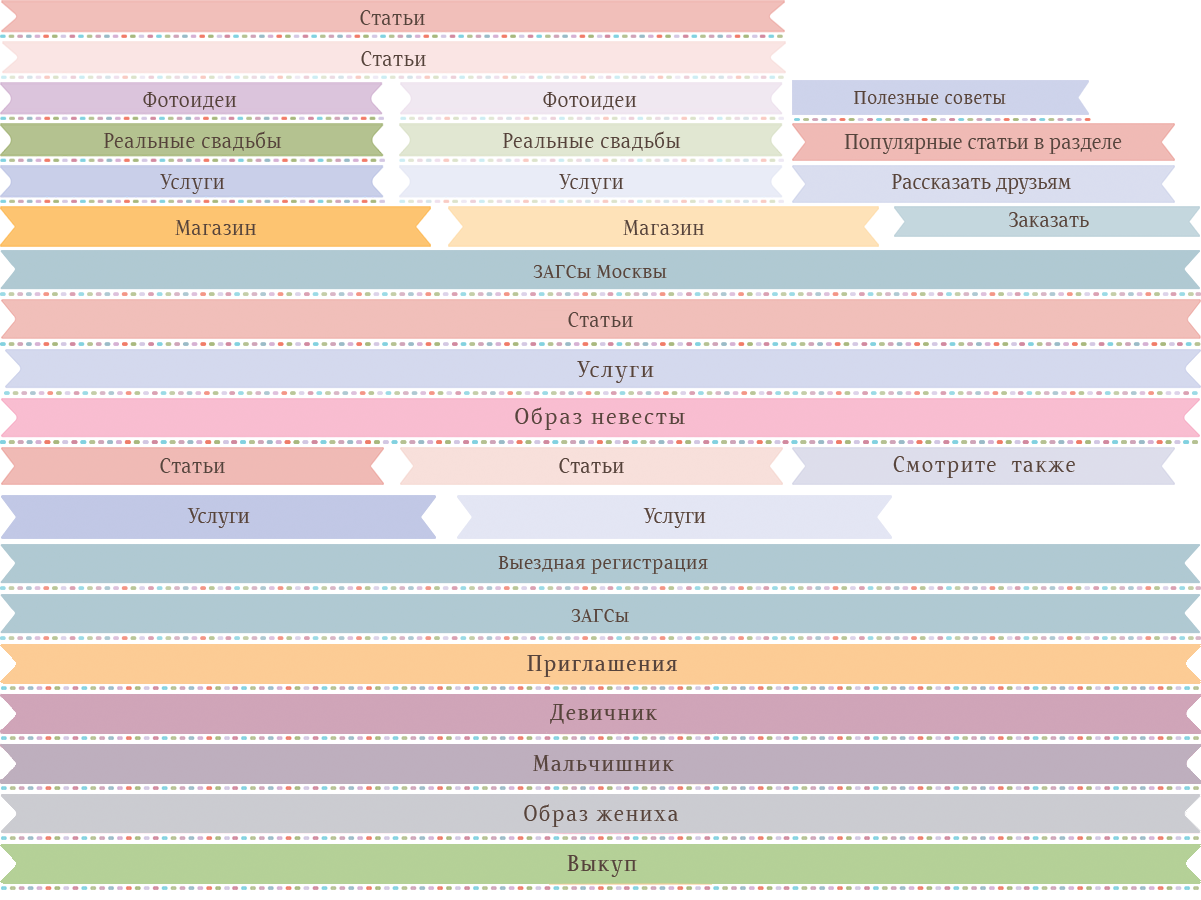
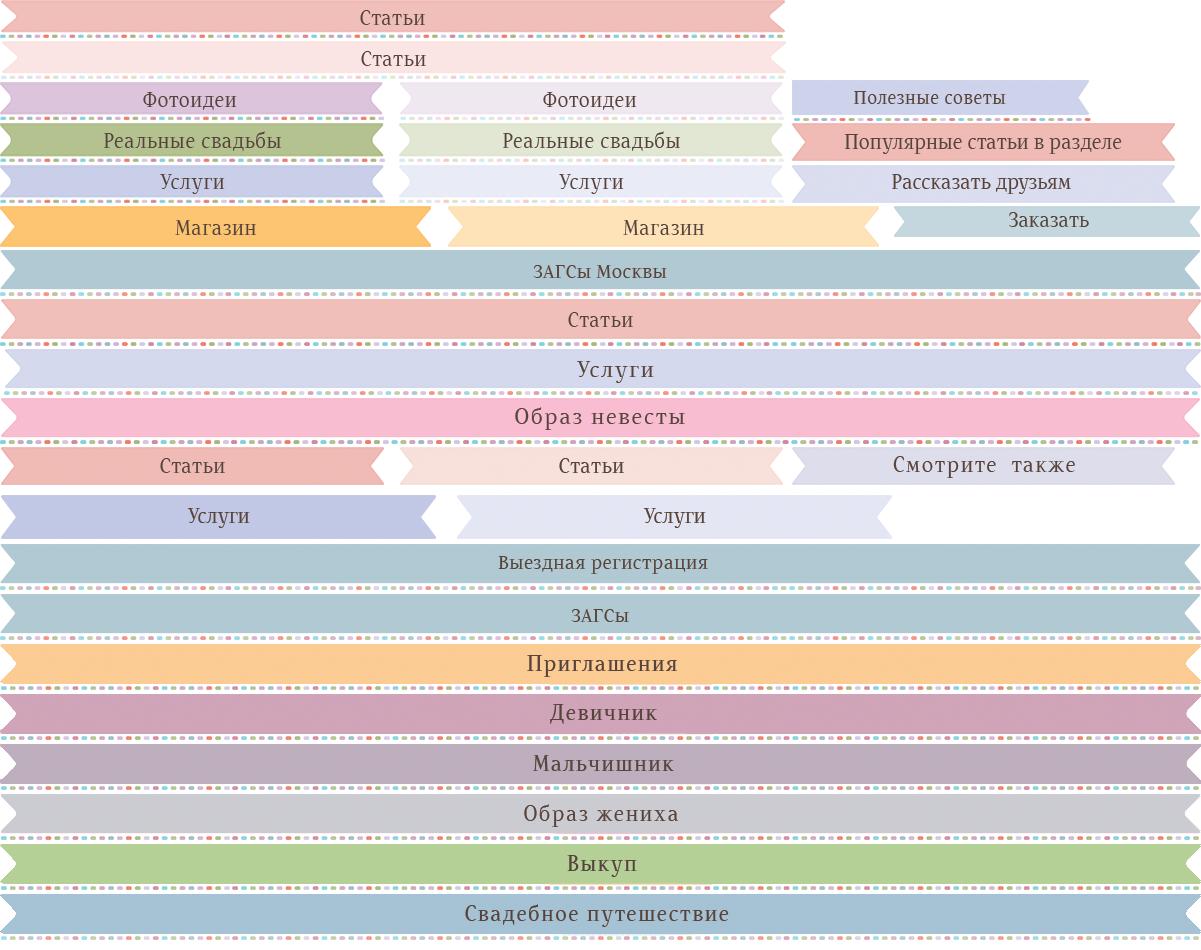
+ travel-list.html page

diff --git a/travel-list.html b/travel-list.html
@@ -1,0 +1,306 @@
+<!DOCTYPE html>
+<html>
+<head>
+    <meta charset="utf-8"/>
+    <meta name="viewport" content="width=1326, initial-scale=1">
+    <title>Свадебный портал №1</title>
+    <link rel="stylesheet" href="css/style.css"/>
+    <script src="js/jquery-2.1.1.min.js"></script>
+    <script src="js/jquery.main.js"></script>
+</head>
+<body>
+    <div id="wrapper">
+        <header id="header">
+            <div class="top-bar">
+                <div class="center-container">
+                    <form class="search-form" action="#">
+                        <fieldset>
+                            <input type="text" placeholder="Поиск"/>
+                            <input type="submit" value="Найти"/>
+                        </fieldset>
+                    </form>
+                    <ul class="menu">
+                        <li><a href="#">Вход</a></li>
+                        <li><a href="#">О проекте</a></li>
+                        <li><a href="#">Контакты</a></li>
+                    </ul>
+                    <ul class="social">
+                        <li class="vk"><a href="#" title="Вконтакте">Вконтакте</a></li>
+                        <li class="fb"><a href="#" title="Facebook">Facebook</a></li>
+                        <li class="twit"><a href="#" title="Twitter">Twitter</a></li>
+                        <li class="inst"><a href="#" title="Instagram">Instagram</a></li>
+                        <li class="pint"><a href="#" title="Pinterest">Pinterest</a></li>
+                    </ul>
+                </div>
+            </div>
+            <div class="logo-holder">
+                <strong><a class="logo" href="#" title="Свадебный портал №1">Свадебный портал №1</a></strong>
+            </div>
+            <nav class="main-nav">
+                <ul id="nav">
+                    <li class="invitations">
+                        <a href="#"><span>Приглашения</span></a>
+                    </li>
+                    <li class="wedding-look has-drop">
+                        <a href="#"><span>Свадебный образ</span></a>
+                        <ul class="drop">
+                            <li><a href="#">Невеста</a></li>
+                            <li><a href="#">Жених</a></li>
+                            <li><a href="#">Друзья</a></li>
+                        </ul>
+                    </li>
+                    <li class="register has-drop">
+                        <a href="#"><span>ЗАГС и Выездная регистрация</span></a>
+                        <ul class="drop">
+                            <li><a href="#">ЗАГС</a></li>
+                            <li><a href="#">Выездная регистрация</a></li>
+                        </ul>
+                    </li>
+                    <li class="party has-drop">
+                        <a href="#"><span>Девичник и мальчишник</span></a>
+                        <ul class="drop">
+                            <li><a href="#">Девичник</a></li>
+                            <li><a href="#">Мальчишник</a></li>
+                        </ul>
+                    </li>
+                    <li class="buyout">
+                        <a href="#"><span>Выкуп</span></a>
+                    </li>
+                    <li class="banket">
+                        <a href="#"><span>Банкет и программа</span></a>
+                    </li>
+                    <li class="photography has-drop">
+                        <a href="#"><span>Фотосъемка и видеосъемка</span></a>
+                        <ul class="drop">
+                            <li><a href="#">Фотосъемка</a></li>
+                            <li><a href="#">Видеосъемка</a></li>
+                        </ul>
+                    </li>
+                    <li class="walk">
+                        <a href="#"><span>Прогулка</span></a>
+                    </li>
+                    <li class="wedding-night">
+                        <a href="#"><span>Первая брачная ночь</span></a>
+                    </li>
+                    <li class="tour active">
+                        <a href="#"><span>Свадебное путешествие</span></a>
+                    </li>
+                </ul>
+                <ul class="add-links">
+                    <li class="shop"><a href="#">Магазин</a></li>
+                    <li class="services"><a href="#">Услуги</a></li>
+                    <li class="articles"><a href="#">Статьи</a></li>
+                </ul>
+            </nav>
+        </header>
+        <main id="main">
+            <div class="container">
+                <h1 class="title title-travels-wide"><span>ЗАГСы Москвы</span></h1>
+                <div class="content">
+                    <div class="travel-list">
+                        <h2>Информация о странах</h2>
+                        <div class="column-lists">
+                            <div class="column-list">
+                                <div class="list-item">
+                                    <span class="letter">А</span>
+                                    <ul>
+                                        <li><a href="#">Андорра</a></li>
+                                        <li><a href="#">Аргентина</a></li>
+                                        <li><a href="#">Аруба</a></li>
+                                    </ul>
+                                </div>
+                                <div class="list-item">
+                                    <span class="letter">Б</span>
+                                    <ul>
+                                        <li><a href="#">Барбадос</a></li>
+                                        <li><a href="#">Бельгия</a></li>
+                                        <li><a href="#">Болгария</a></li>
+                                        <li><a href="#">Бразилия</a></li>
+                                    </ul>
+                                </div>
+                                <div class="list-item">
+                                    <span class="letter">В</span>
+                                    <ul>
+                                        <li><a href="#">Великобритания</a></li>
+                                        <li><a href="#">Венгрия</a></li>
+                                        <li><a href="#">Вьетнам</a></li>
+                                    </ul>
+                                </div>
+                                <div class="list-item">
+                                    <span class="letter">Г</span>
+                                    <ul>
+                                        <li><a href="#">Германия</a></li>
+                                        <li><a href="#">Греция <span class="counter">(1)</span></a></li>
+                                    </ul>
+                                </div>
+                                <div class="list-item">
+                                    <span class="letter">Д</span>
+                                    <ul>
+                                        <li><a href="#">Детский отдых</a></li>
+                                        <li><a href="#">Доминиканская республика</a></li>
+                                    </ul>
+                                </div>
+                                <div class="list-item">
+                                    <span class="letter">Е</span>
+                                    <ul>
+                                        <li><a href="#">Египет</a></li>
+                                    </ul>
+                                </div>
+                                <div class="list-item">
+                                    <span class="letter">З</span>
+                                    <ul>
+                                        <li><a href="#">Зимбабве</a></li>
+                                    </ul>
+                                </div>
+                                <div class="list-item">
+                                    <span class="letter">И</span>
+                                    <ul>
+                                        <li><a href="#">Измайловский ЗАГС</a></li>
+                                    </ul>
+                                </div>
+                                <div class="list-item">
+                                    <span class="letter">К</span>
+                                    <ul>
+                                        <li><a href="#">Кунцевский ЗАГС</a></li>
+                                        <li><a href="#">Кутузовский ЗАГС</a></li>
+                                    </ul>
+                                </div>
+                                <div class="list-item">
+                                    <span class="letter">Л</span>
+                                    <ul>
+                                        <li><a href="#">Левобережный ЗАГС</a></li>
+                                        <li><a href="#">Люблинский ЗАГС</a></li>
+                                    </ul>
+                                </div>
+                                <div class="list-item">
+                                    <span class="letter">М</span>
+                                    <ul>
+                                        <li><a href="#">Медведковский ЗАГС</a></li>
+                                        <li><a href="#">Мещанский ЗАГС</a></li>
+                                        <li><a href="#">Митинский ЗАГС</a></li>
+                                    </ul>
+                                </div>
+                                <div class="list-item">
+                                    <span class="letter">Н</span>
+                                    <ul>
+                                        <li><a href="#">Нагатинский ЗАГС</a></li>
+                                        <li><a href="#">Новомосковский ЗАГС</a></li>
+                                    </ul>
+                                </div>
+                                <div class="list-item">
+                                    <span class="letter">П</span>
+                                    <ul>
+                                        <li><a href="#">Перовский ЗАГС</a></li>
+                                    </ul>
+                                </div>
+                                <div class="list-item">
+                                    <span class="letter">Р</span>
+                                    <ul>
+                                        <li><a href="#">Рязанский ЗАГС</a></li>
+                                    </ul>
+                                </div>
+                                <div class="list-item">
+                                    <span class="letter">С</span>
+                                    <ul>
+                                        <li><a href="#">Солнцевский ЗАГС</a></li>
+                                    </ul>
+                                </div>
+                                <div class="list-item">
+                                    <span class="letter">Т</span>
+                                    <ul>
+                                        <li><a href="#">Таганский ЗАГС</a></li>
+                                        <li><a href="#">Тверской ЗАГС</a></li>
+                                        <li><a href="#">Троицкий ЗАГС</a></li>
+                                        <li><a href="#">Тушинский ЗАГС</a></li>
+                                    </ul>
+                                </div>
+                                <div class="list-item">
+                                    <span class="letter">У</span>
+                                    <ul>
+                                        <li><a href="#">Ухтомский ЗАГС</a></li>
+                                    </ul>
+                                </div>
+                                <div class="list-item">
+                                    <span class="letter">Х</span>
+                                    <ul>
+                                        <li><a href="#">Хамовнический ЗАГС</a></li>
+                                        <li><a href="#">Хорошевский ЗАГС</a></li>
+                                    </ul>
+                                </div>
+                                <div class="list-item">
+                                    <span class="letter">Х</span>
+                                    <ul>
+                                        <li><a href="#">Царицынский ЗАГС</a></li>
+                                    </ul>
+                                </div>
+                                <div class="list-item">
+                                    <span class="letter">Х</span>
+                                    <ul>
+                                        <li><a href="#">Черемушкинский ЗАГС</a></li>
+                                        <li><a href="#">Чертановский ЗАГС</a></li>
+                                    </ul>
+                                </div>
+                            </div>
+                        </div>
+                    </div>
+                </div>
+                <div class="text">
+                    <p>В нашей стране все большую популярность среди молодых людей обретает сочетание брака в необычных местах. В парке, на крыше, в старинных усадьбах и даже на берегу моря.
+                        Иными словами, выездная регистрация, кажется, заменила привычный и классический поход в ЗАГС.</p>
+                    <p>Но не все так просто, и прежде, чем организовать красивую церемонию выездной регистрации молодожены обязаны посетить ЗАГС и официально зарегистрировать свой союз.
+                        ЗАГСы Москвы предоставляют такую возможность всем желающим. Благо их в столице более 30, поэтому каждая пара может подобрать наиболее удобно расположенный ЗАГС.
+                        Однако желающих скрепить свой союз подписями и штампами в Москве огромное количество! В связи с этим некоторые процедуры можно осуществить через интернет, например
+                        подать заявление или встать в очередь на дату. Для ЗАГСов Москвы создано большое количество форумов, где вы можете заменить поход в сам ЗАГС и не стоять в километровых
+                        очередях, чтобы зарегистрировать брак именно в тот день, который вы запланировали.</p>
+                    <p>Атмосфера свадьбы во многом зависит от того, в каком отделении ЗАГС проходит церемония бракосочетания. Занимаясь подготовкой к этому событию и выбирая ЗАГС Москвы,
+                        обязательно обратите внимание на его внешний вид, время работы ЗАГС, отношению персонала к молодоженам и другие важнейшие нюансы. Самое главное - не спешите
+                        записываться в первый попавшийся ЗАГС района Москвы, и сравните несколько дворцов бракосочетания.</p>
+                </div>
+            </div>
+        </main>
+        <footer id="footer">
+            <div class="holder">
+                <strong class="logo-small">
+                    <a href="#" title="Свадебный портал №1">Свадебный портал №1</a>
+                </strong>
+                <div class="column">
+                    <span class="caption">Обзор сайта</span>
+                    <ul>
+                        <li><a href="#">Свадебные сайты</a></li>
+                        <li><a href="#">Фотогаллерея</a></li>
+                        <li><a href="#">Топ пять</a></li>
+                        <li><a href="#">Реальные свадьбы</a></li>
+                        <li><a href="#">Товары</a></li>
+                    </ul>
+                </div>
+                <div class="column">
+                    <span class="caption">Drop by our sites</span>
+                    <ul>
+                        <li><a href="#">My family window</a></li>
+                        <li><a href="#">Wedding window</a></li>
+                    </ul>
+                </div>
+                <div class="column">
+                    <span class="caption">Мы в соцсетях</span>
+                    <ul class="social-links">
+                        <li class="vk"><a href="#" title="Вконтакте">Вконтакте</a></li>
+                        <li class="fb"><a href="#" title="Facebook">Facebook</a></li>
+                        <li class="twit"><a href="#" title="Твиттер">Твиттер</a></li>
+                        <li class="inst"><a href="#" title="Instagram">Instagram</a></li>
+                        <li class="pint"><a href="#" title="Pinterest">Pinterest</a></li>
+                    </ul>
+                </div>
+                <div class="column">
+                    <span class="caption">Информация</span>
+                    <ul>
+                        <li><a href="#">О нас</a></li>
+                        <li><a href="#">Контакты</a></li>
+                        <li><a href="#">Конфиденциальность</a></li>
+                        <li><a href="#">Условия</a></li>
+                    </ul>
+                </div>
+            </div>
+        </footer>
+    </div>
+</body>
+</html>

diff --git a/css/style.css b/css/style.css
@@ -833,6 +833,14 @@ fieldset {
     height: 46px;
     background-position: 0 -844px;
 }
+.title.title-travels-wide {
+    margin-bottom: 42px;
+}
+.title.title-travels-wide span {
+    width: 1201px;
+    height: 46px;
+    background-position: 0 -894px;
+}
 .text-title {
     display: block;
     margin: 0;
@@ -855,6 +863,20 @@ fieldset {
 }
 .content-img-title img {
     display: block;
+}
+/* travel list */
+.travel-list {
+    margin: -10px 0 0;
+}
+.content .travel-list h2 {
+    margin-bottom: 30px;
+}
+.travel-list .letter {
+    background-position: -252px -32px;
+}
+.travel-list .column-list .list-item ul a:hover,
+.travel-list .column-list .list-item ul a .counter{
+    color: #6fa1c1;
 }
 /* top articles */
 .top-articles {
